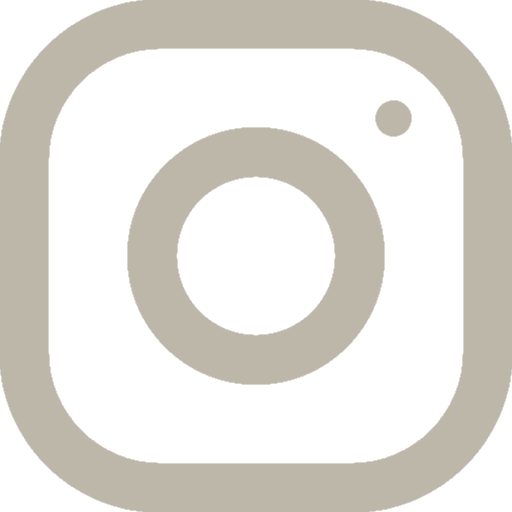
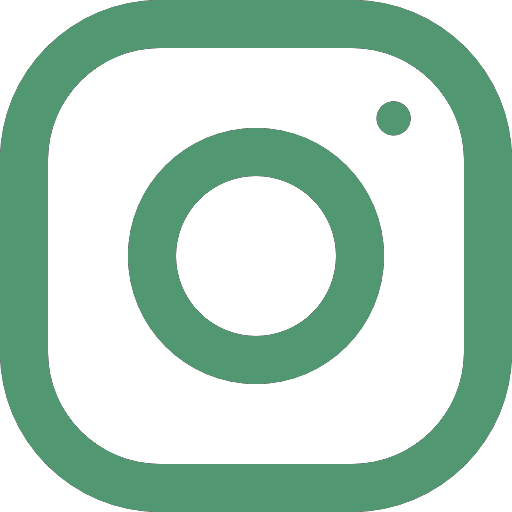
Add files via upload

diff --git a/about.html b/about.html
@@ -4,23 +4,24 @@
     <meta charset="UTF-8">
     <meta http-equiv="X-UA-Compatible" content="IE=edge">
     <meta name="viewport" content="width=device-width, initial-scale=1.0">
-    <title>THarq | Sobre mim</title>
+    <title>TH | Sobre mim</title>
     <link rel="stylesheet" href="./style/style.css">
 </head>
 <body>
     <header class="cabecalho">
         <nav class="cabecalho__menu">
-            <a class="cabecalho__menu--link" href="index.html">Home</a>
-            <a class="cabecalho__menu--link" href="about.html">Sobre mim</a>
+            <a class="cabecalho__menu--link" href="./index.html">Home</a>
+            <a class="cabecalho__menu--link" href="./about.html">Sobre mim</a>
+            <a class="cabecalho__menu--link" href="./portfolio.html">Portfolios</a>
         </nav>
     </header>
     <main class="apresentacao">
-        <section class="apresentacao__conteudo">
+        <section class="apresentacao__curriculo">
             <h1 class="apresentacao__conteudo--titulo">Sobre mim</h1>
-            <p class="apresentacao__conteudo--texto">Arquiteta com experiência em projeto executivo e detalhamento de arquitetura de interiores. Conhecimentos e habilidade com desenho técnico em AutoCAD e modelagem 3D em SketchUp.<br>Trabalhos autônomos com consultoria, vistoria, gerenciamento e acompanhamento de obras.
+            <p class="apresentacao__conteudo--texto">Arquiteta com experiência em projeto executivo, compatibilização de complementares e detalhamento de arquitetura de interiores. Conhecimentos e habilidade com desenho técnico em AutoCAD e modelagem 3D em SketchUp.<br>Trabalhos autônomos com consultoria, assessoria, gerenciamento e acompanhamento de obras.
             </p>
+            <p class="apresentacao__conteudo--texto">Estudante na área de tecnologia em Front-End e UX/UI Design.</p>
             <h2 class="apresentacao__conteudo--titulo">Experiência</h2>
-            <p class="apresentacao__conteudo--texto">
                 <ul class="apresentacao__conteudo--texto">
                     <li>Projetos Autônomos (jan/14 - até o momento)</li>
                     <li>Decolle Studio de Arquitetura (set/21 - dez/22)</li>
@@ -28,18 +29,15 @@
                     <li>Piracuama Empreendimentos Imobiliários (out/17 - jul/18)</li>
                     <li>Leme Escritório Técnico (jan/11 - jan/17)</li>                    
                 </ul>
-            </p>
             <h2 class="apresentacao__conteudo--titulo">Formação</h2>
-            <p class="apresentacao__conteudo--texto">
                 <ul class="apresentacao__conteudo--texto">
-                    <li>ALURA - Programação, Front-End e UX/UI (2023 - cursando)<br><a href="https://cursos.alura.com.br/user/tassiahada/fullCertificate/7da2356753e6ebf2042d8e37c5ac019e">Certificado</a> dos cursos finalizados até o momento.</li>
                     <li>FIAM FAAM - Arquitetura e Urbanismo (2009 - 2013)</li>
-                    <li>SENAC - Técnica em Hotelaria (2008 - 2009)</li>
-                    <li>Bick Simonato Design de Interiores (set/18 - set/21)</li>                  
-                </ul>
-            </p>
+                    <li>SENAC - Técnica em Hotelaria (2008 - 2009)</li><br>
+                    <li>ALURA - Programação, Front-End e UX/UI (2023 - cursando)</li>
+                </ul>  
+            <a class="apresentacao__links--texto" href="https://www.linkedin.com/in/tassiahada/">
+                <img class="icones" src="./assets/linkedin.png"> LinkedIn</a>
         </section>
-        <img class="foto" src="./images/foto-Tássia.jpg" alt="Foto da Tássia Hada sorrindo">
     </main>
     <footer class="rodape">
         <p>Desenvolvido por Tássia Hada, através dos cursos da Alura.</p>

diff --git a/index.html b/index.html
@@ -4,29 +4,28 @@
         <meta charset="UTF-8">
         <meta http-equiv="X-UA-Compatible" content="IE=edge">
         <meta name="viewport" content="width=device-width, initial-scale=1.0">
-        <title>Tássia Hada Arquiteta</title>
+        <title>Tássia Hada Arq/Dev</title>
         <link rel="stylesheet" href="./style/style.css">
     </head>
     <body>
         <header class="cabecalho">
             <nav class="cabecalho__menu">
-                <a class="cabecalho__menu--link" href="index.html">Home</a>
-                <a class="cabecalho__menu--link" href="about.html">Sobre mim</a>
+                <a class="cabecalho__menu--link" href="./index.html">Home</a>
+                <a class="cabecalho__menu--link" href="./about.html">Sobre mim</a>
+                <a class="cabecalho__menu--link" href="./portfolio.html">Portfolios</a>
             </nav>
         </header>
         <main class="apresentacao">
             <section class="apresentacao__conteudo">
-                <h1 class="apresentacao__conteudo--titulo">Transforme em realidade o seu <strong class="titulo-destaque">projeto dos sonhos!</strong></h1>
-                <p class="apresentacao__conteudo--texto">Olá! Sou Tássia Hada, arquiteta e especialista em projetos e obras residenciais. Posso te ajudar a transformar o lar dos seus sonhos em realidade.
+                <h1 class="apresentacao__conteudo--titulo"><strong class="titulo-destaque">De projetos de arquitetura a soluções de desenvolvimento web</strong>, posso transformar suas ideias em realidade, criando espaços funcionais e soluções digitais inovadoras.</h1>
+                <p class="apresentacao__conteudo--texto">Olá! Sou Tássia Hada, arquiteta apaixonada por design e tecnologia que está em <strong class="titulo-destaque">transição de carreira</strong> para se tornar uma desenvolvedora web, buscando combinar minha habilidade em resolver problemas criativos com habilidades técnicas em programação para criar soluções digitais inovadoras.
                 </p>
                 <div class="apresentacao__links">
                     <h2 class="apresentacao__links--titulo">Vamos conversar?</h2>
                     <a class="apresentacao__links--texto" href="https://wa.me/5511971178947/">
                         <img class="icones" src="./assets/whatsapp.png"> Whatsapp</a>
-                    <a class="apresentacao__links--texto" href="https://www.instagram.com/tassiahada.arq/">
-                        <img class="icones" src="./assets/instagram.png"> Instagram</a>
-                    <a class="apresentacao__links--texto" href="https://www.linkedin.com/in/tassiahada/">
-                        <img class="icones" src="./assets/linkedin.png"> LinkedIn</a>
+                    <a class="apresentacao__links--texto" href="mailto:tassiahada@gmail.com">
+                        <img class="icones" src="./assets/email.png"> E-mail</a>    
                 </div>
             </section>
             <img class="foto" src="./images/foto-Tássia.jpg" alt="Foto da Tássia Hada sorrindo">

diff --git a/style/style.css b/style/style.css
@@ -1,10 +1,10 @@
   @import url('https://fonts.googleapis.com/css2?family=Merriweather+Sans:wght@300;600&family=Poiret+One&display=swap');
 
 :root {
-    --cor1: #3D3B37;
-    --cor2: #8A867C;
-    --cor3: #BDB7AA;
-    --cor4: #D6CAAB;
+    --cor1: #171717; /* plano de fundo */
+    --cor2: #519872; /* cor destaque */
+    --cor3: #EDEDED; /* texto geral */
+    --cor4: #444444; /* hover botão */
     --fonte-titulo: 'Poiret One', cursive;
     --fonte-corpo: 'Merriweather Sans', sans-serif;
 }
@@ -41,11 +41,17 @@ body {
     display: flex;
     align-items: center;
     justify-content: space-between;
-    gap: 80px;
+    gap: 30px;
 }
 
 .apresentacao__conteudo {
     width: 50%;
+    display: flex;
+    flex-direction: column;
+    gap: 20px;
+}
+
+.apresentacao__curriculo {
     display: flex;
     flex-direction: column;
     gap: 40px;
@@ -57,7 +63,7 @@ body {
 }
 
 .titulo-destaque {
-    color: var(--cor4);
+    color: var(--cor2);
 }
 
 .apresentacao__conteudo--texto {
@@ -71,11 +77,11 @@ li {
 
 .apresentacao__conteudo--texto a {
     text-decoration: none;
-    color: var(--cor4);
+    color: var(--cor2);
 }
 
 .apresentacao__conteudo--texto a:hover {
-    background-color: var(--cor2);
+    background-color: var(--cor4);
     border-radius: 6px;
 }
 
@@ -97,13 +103,13 @@ li {
     justify-content: center;
     gap: 16px;
     text-decoration: none;
-    color: var(--cor4);
+    color: var(--cor3);
     font-family: var(--fonte-corpo);
     font-weight: 600;
     font-size: 1.5rem;
     text-align: center;
-    width: 350px; 
-    border: 2px solid #BDB7AA;
+    width: 21rem; 
+    border: 2px solid var(--cor3);
     border-radius: 12px;
     padding: 21px 0; 
 }
@@ -113,7 +119,7 @@ li {
 }
 
 .apresentacao__links--texto:hover {
-    background-color: var(--cor2);    
+    background-color: var(--cor4);    
 }
 
 .foto {
@@ -128,7 +134,7 @@ li {
     text-align: center;
     font-family: var(--fonte-titulo);
     font-weight: 600;
-    font-size: 1.5rem;
+    font-size: 1.25rem;
 }
 
 @media (max-width: 1200px) {
@@ -148,3 +154,4 @@ li {
     .apresentacao__conteudo {
         width: auto;
     }
+}

diff --git a/portfolio.html b/portfolio.html
@@ -1,0 +1,37 @@
+<!DOCTYPE html>
+<html lang="pt-br">
+<head>
+    <meta charset="UTF-8">
+    <meta http-equiv="X-UA-Compatible" content="IE=edge">
+    <meta name="viewport" content="width=device-width, initial-scale=1.0">
+    <title>TH | Portfolios</title>
+    <link rel="stylesheet" href="./style/style.css">
+</head>
+<body>
+    <header class="cabecalho">
+        <nav class="cabecalho__menu">
+            <a class="cabecalho__menu--link" href="./index.html">Home</a>
+            <a class="cabecalho__menu--link" href="./about.html">Sobre mim</a>
+            <a class="cabecalho__menu--link" href="./portfolio.html">Portfolios</a>
+        </nav>
+    </header>
+    <main class="apresentacao">
+        <img class="foto" src="./images/imagem-transicao.jpg" alt="Imagem de código desfocado com icones de arquitetura em destaque">
+        <section class="apresentacao__conteudo">
+            <h1 class="apresentacao__conteudo--titulo">Portfolios</h1>
+            <p class="apresentacao__conteudo--texto">Aqui você encontra meus portfolios como arquiteta e como desenvolvedora web.</p>
+            <h2 class="apresentacao__conteudo--titulo">Arquitetura</h2>
+            <p class="apresentacao__conteudo--texto">Construindo para compartilhar em breve. Aguarde!</p>
+            <a class="apresentacao__links--texto" href="https://www.instagram.com/tassiahada.arq/">
+                <img class="icones" src="./assets/instagram.png"> Instagram</a>     
+            <h2 class="apresentacao__conteudo--titulo">Tecnologia</h2>
+            <p class="apresentacao__conteudo--texto">Registros do meu aprendizado em tecnologia.</p>
+                <a class="apresentacao__links--texto" href="https://github.com/tassiahada/">
+                <img class="icones" src="./assets/github.png"> GitHub</a>           
+        </section>
+    </main>
+    <footer class="rodape">
+        <p>Desenvolvido por Tássia Hada, através dos cursos da Alura.</p>
+    </footer>
+</body>
+</html>
